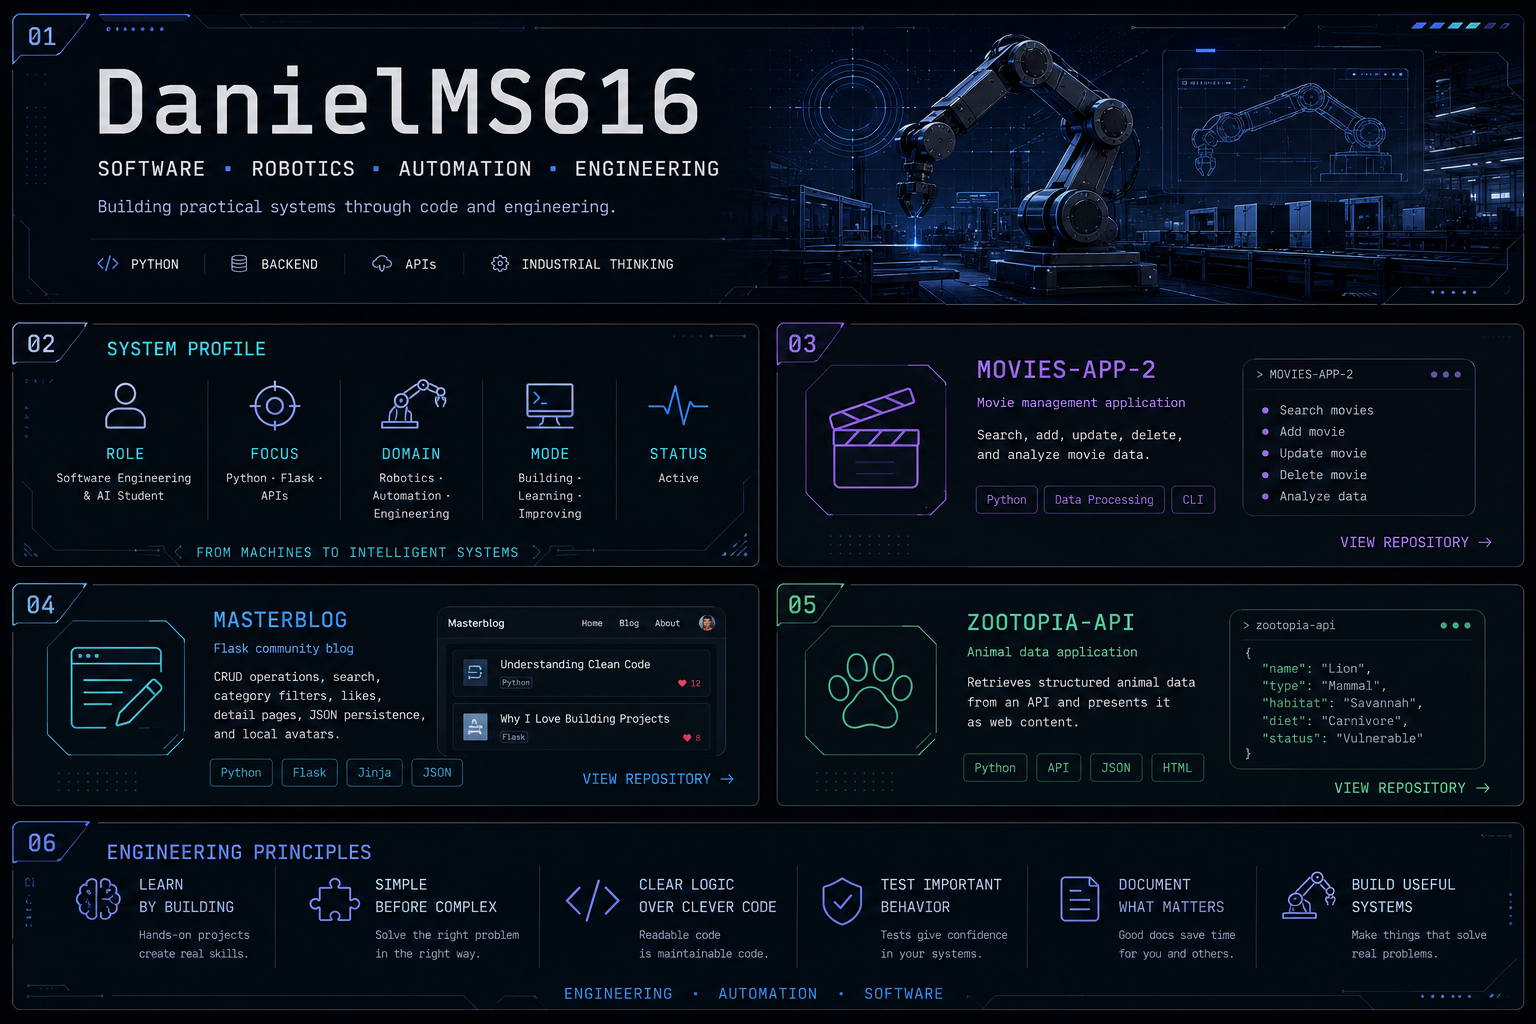
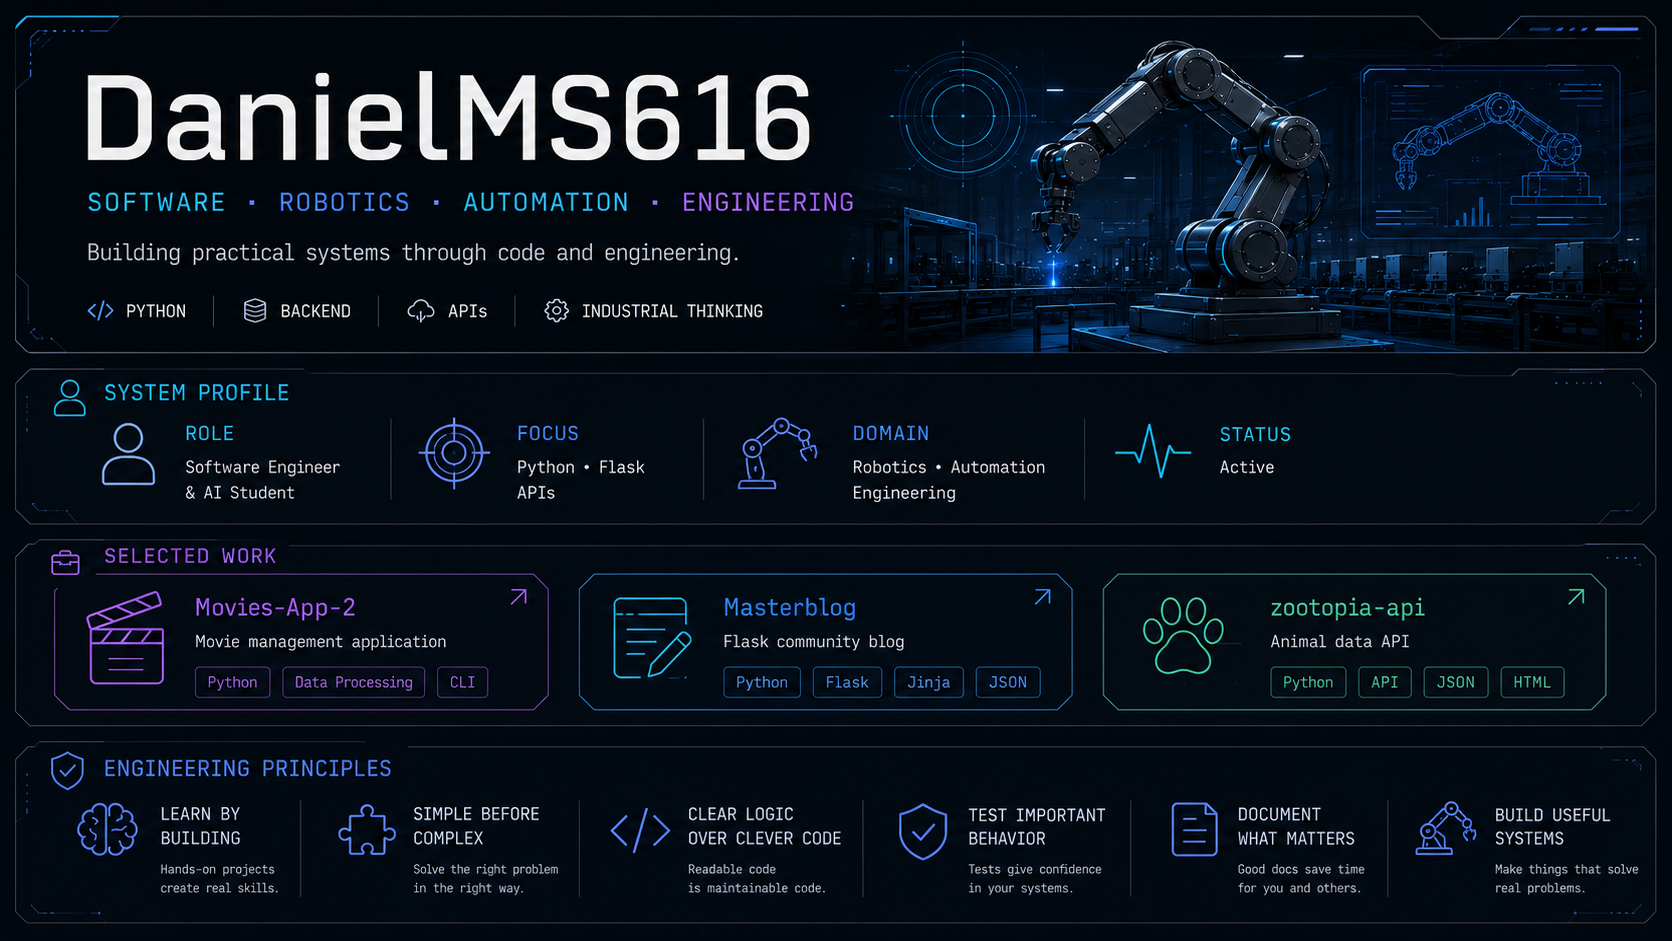
Update visual GitHub profile dashboard

diff --git a/README.md b/README.md
@@ -1,7 +1,7 @@
 <p align="center">
   <a href="https://github.com/DanielMS616?tab=repositories">
     <img
-      src="assets/profile/profile-dashboard.png"
+      src="./assets/profile/profile-dashboard.png"
       alt="DanielMS616 – Software, Robotics, Automation and Engineering"
       width="100%"
     >
@@ -9,21 +9,5 @@
 </p>
 
 <p align="center">
-  <a href="https://github.com/DanielMS616/Movies-App-2">Movies-App-2</a>
-  &nbsp;·&nbsp;
-  <a href="https://github.com/DanielMS616/Masterblog">Masterblog</a>
-  &nbsp;·&nbsp;
-  <a href="https://github.com/DanielMS616/zootopia-api">zootopia-api</a>
-</p>
-
-<p align="center">
   Python · Flask · APIs · Robotics · Automation · Engineering
-</p>
-
-<p align="center">
-  <a href="https://github.com/DanielMS616">GitHub</a>
-  &nbsp;·&nbsp;
-  <a href="www.linkedin.com/in/daniel-glöde-a319ba418">LinkedIn</a>
-  &nbsp;·&nbsp;
-  <a href="https://github.com/DanielMS616?tab=repositories">Repositories</a>
 </p>
